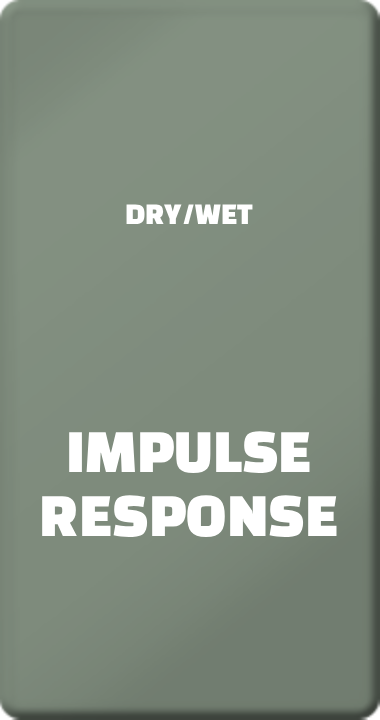
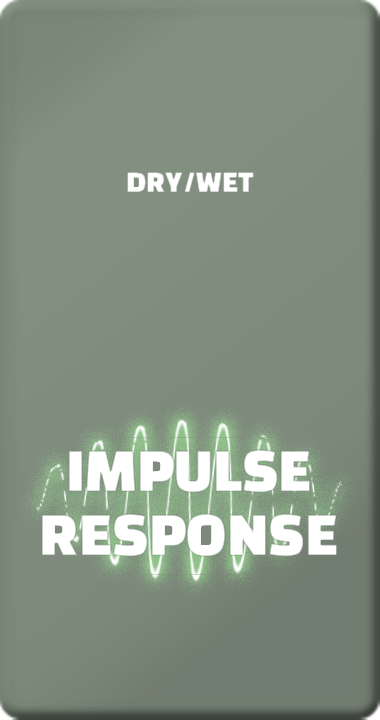
forward/backward buttons for IR

Changed region(s): [[0.0868, 0.5806, 0.8974, 0.825], [0.3184, 0.2139, 0.6658, 0.3361]]

diff --git a/src/pedals/nam.rs b/src/pedals/nam.rs
@@ -297,7 +297,7 @@ impl PedalTrait for Nam {
                 m.data.get_temp("nam_folders".into()).as_ref().cloned()
             } else {
                 None
-            }            
+            }
         });
 
         if let Some(mut roots) = new_root_directories {
@@ -333,7 +333,7 @@ impl PedalTrait for Nam {
             .scale_from_center2(
                 Vec2::new(0.9, 0.1)
             ).translate(
-                Vec2::new(0.0, -0.08*pedal_rect.height())
+                Vec2::new(0.0, -0.15*pedal_rect.height())
             );
 
         let mut combo_ui = ui.new_child(
@@ -365,13 +365,47 @@ impl PedalTrait for Nam {
             }
         }
 
-        if let Some(value) = pedal_knob(ui, "", self.parameters.get("gain").unwrap(), Vec2::new(0.05, 0.12), 0.25) {
+        let button_rect = combo_box_rect.translate(Vec2::new(0.0, combo_box_rect.height() + 0.02*pedal_rect.height()));
+        let mut button_ui = ui.new_child(
+            egui::UiBuilder::new()
+                .max_rect(button_rect)
+                .layout(egui::Layout::left_to_right(egui::Align::Min))
+        );
+        if button_ui.add_sized(
+            Vec2::new(button_rect.width()*0.47, button_rect.height()),
+            egui::Button::new("<")
+        ).clicked() {
+            self.combobox_widget.select_previous_file();
+            if let Some(path) = self.combobox_widget.selected() {
+                if let Some(s) = path.to_str() {
+                    to_change = Some((String::from("model"), PedalParameterValue::String(s.to_string())));
+                } else {
+                    log::warn!("Selected model path is not valid unicode");
+                }
+            }
+        };
+        button_ui.add_space(button_rect.width()*0.06);
+        if button_ui.add_sized(
+            Vec2::new(button_rect.width()*0.47, button_rect.height()),
+            egui::Button::new(">")
+        ).clicked() {
+            self.combobox_widget.select_next_file();
+            if let Some(path) = self.combobox_widget.selected() {
+                if let Some(s) = path.to_str() {
+                    to_change = Some((String::from("model"), PedalParameterValue::String(s.to_string())));
+                } else {
+                    log::warn!("Selected model path is not valid unicode");
+                }
+            }
+        };
+
+        if let Some(value) = pedal_knob(ui, "", self.parameters.get("gain").unwrap(), Vec2::new(0.05, 0.06), 0.25) {
             to_change = Some(("gain".to_string(), value));
         }
-        if let Some(value) = pedal_knob(ui, "", self.parameters.get("dry_wet").unwrap(), Vec2::new(0.375, 0.12), 0.25) {
+        if let Some(value) = pedal_knob(ui, "", self.parameters.get("dry_wet").unwrap(), Vec2::new(0.375, 0.06), 0.25) {
             to_change = Some(("dry_wet".to_string(), value));
         }
-        if let Some(value) = pedal_knob(ui, "", self.parameters.get("level").unwrap(), Vec2::new(0.7, 0.12), 0.25) {
+        if let Some(value) = pedal_knob(ui, "", self.parameters.get("level").unwrap(), Vec2::new(0.7, 0.06), 0.25) {
             to_change = Some(("level".to_string(), value));
         }
 

diff --git a/src/pedals/impulse_response.rs b/src/pedals/impulse_response.rs
@@ -318,7 +318,7 @@ impl PedalTrait for ImpulseResponse {
             .scale_from_center2(
                 Vec2::new(0.9, 0.1)
             ).translate(
-                Vec2::new(0.0, -0.08*pedal_rect.height())
+                Vec2::new(0.0, -0.15*pedal_rect.height())
             );
         let mut combo_ui = ui.new_child(
             egui::UiBuilder::new()
@@ -347,7 +347,41 @@ impl PedalTrait for ImpulseResponse {
             }
         }
 
-        if let Some(value) = pedal_knob(ui, "", self.parameters.get("dry_wet").unwrap(), Vec2::new(0.325, 0.08), 0.35) {
+        let button_rect = combo_box_rect.translate(Vec2::new(0.0, combo_box_rect.height() + 0.02*pedal_rect.height()));
+        let mut button_ui = ui.new_child(
+            egui::UiBuilder::new()
+                .max_rect(button_rect)
+                .layout(egui::Layout::left_to_right(egui::Align::Min))
+        );
+        if button_ui.add_sized(
+            Vec2::new(button_rect.width()*0.47, button_rect.height()),
+            egui::Button::new("<")
+        ).clicked() {
+            self.combobox_widget.select_previous_file();
+            if let Some(path) = self.combobox_widget.selected() {
+                if let Some(s) = path.to_str() {
+                    to_change = Some((String::from("ir"), PedalParameterValue::String(s.to_string())));
+                } else {
+                    log::warn!("Selected IR path is not valid unicode");
+                }
+            }
+        };
+        button_ui.add_space(button_rect.width()*0.06);
+        if button_ui.add_sized(
+            Vec2::new(button_rect.width()*0.47, button_rect.height()),
+            egui::Button::new(">")
+        ).clicked() {
+            self.combobox_widget.select_next_file();
+            if let Some(path) = self.combobox_widget.selected() {
+                if let Some(s) = path.to_str() {
+                    to_change = Some((String::from("ir"), PedalParameterValue::String(s.to_string())));
+                } else {
+                    log::warn!("Selected IR path is not valid unicode");
+                }
+            }
+        };
+
+        if let Some(value) = pedal_knob(ui, "", self.parameters.get("dry_wet").unwrap(), Vec2::new(0.325, 0.037), 0.35) {
             to_change = Some(("dry_wet".to_string(), value));
         }
 
